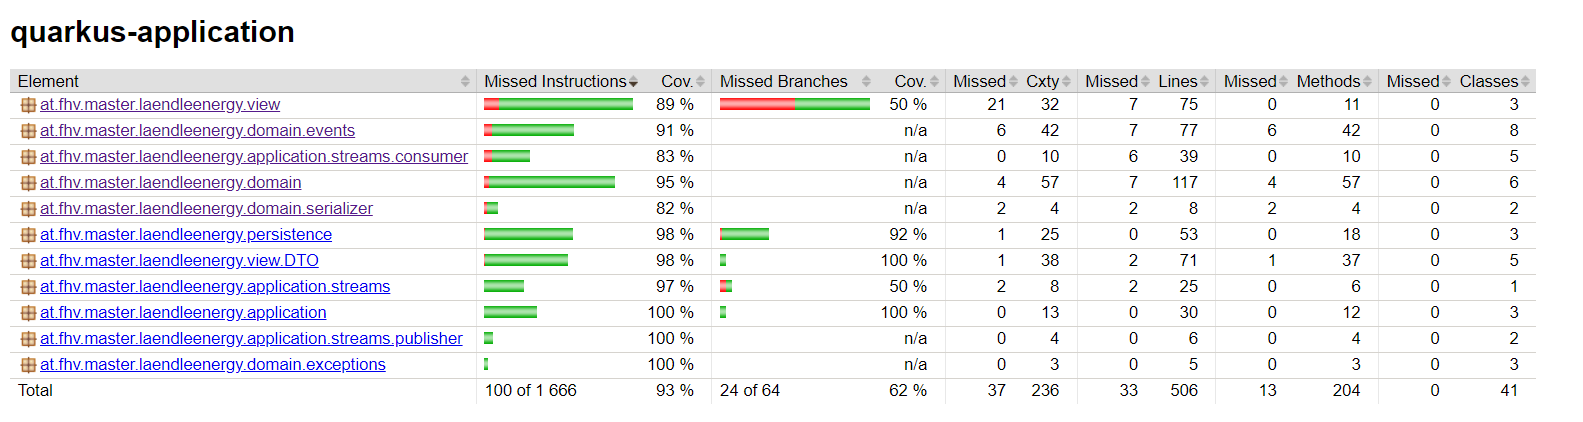
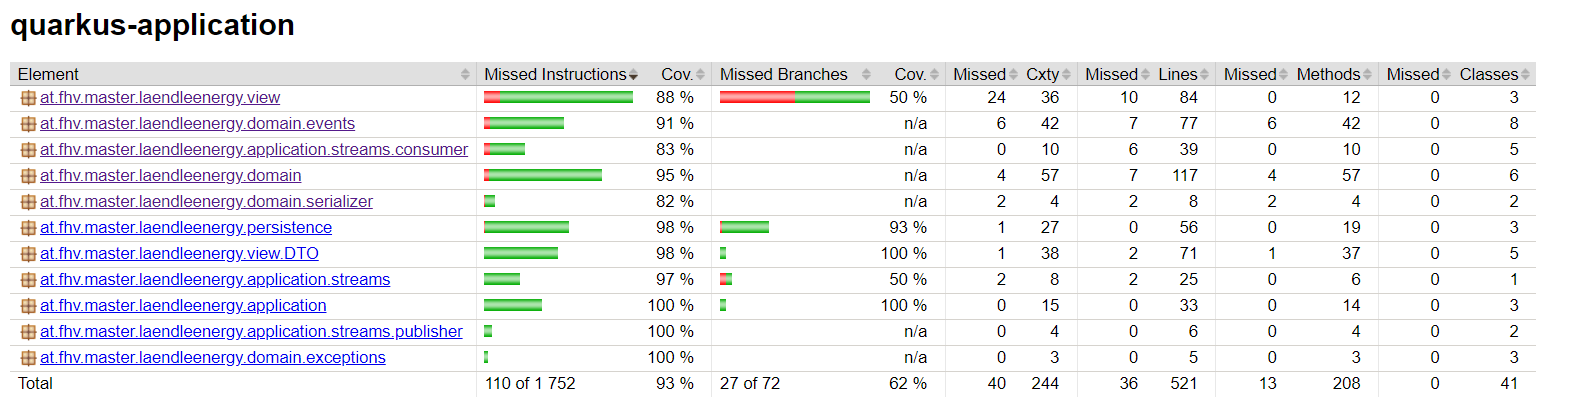
updated test report & extended future work paragraph

Changed region(s): [[0.0, 0.0311, 0.9962, 0.9641]]

diff --git a/index.md b/index.md
@@ -417,7 +417,7 @@ In Figure 9 on the other hand, the Jacoco report of the Accountmanagement servic
 
 #### 2.4.2 Householdmanagement
 
-In Figure 10 the testing report of the Householdmanagement service is shown. For this service, 113 tests have been written.
+In Figure 10 the testing report of the Householdmanagement service is shown. For this service, 120 tests have been written.
 ![Testing Report - Householdmanagement](/images/test-summary_householdmanagement.png) _Figure 10: Testing Report - Householdmanagement_
 
 Figure 11 illustrates the code coverage achieved by those tests.
@@ -615,6 +615,10 @@ _Author_: Bianca
 
 Due to the limited time, we did not implement every functionality we initially planned. So, following could be considered as **possible extensions** of this project:
 
+- Enable editing devices
+- Identify most energy efficient devices in comparison to comparable devices of other households (devices-overview page)
+- Calculate energy efficiency of a specific device
+- Show trend of costs for a day/week/month/year (energy-saving page)
 - Generate an energy saving report and send it as a PDF file to the interested customer
 - Include more energy suppliers than only VKW
 - Use actual pricing plans of the corresponding supplier instead of hardcoded demo data
